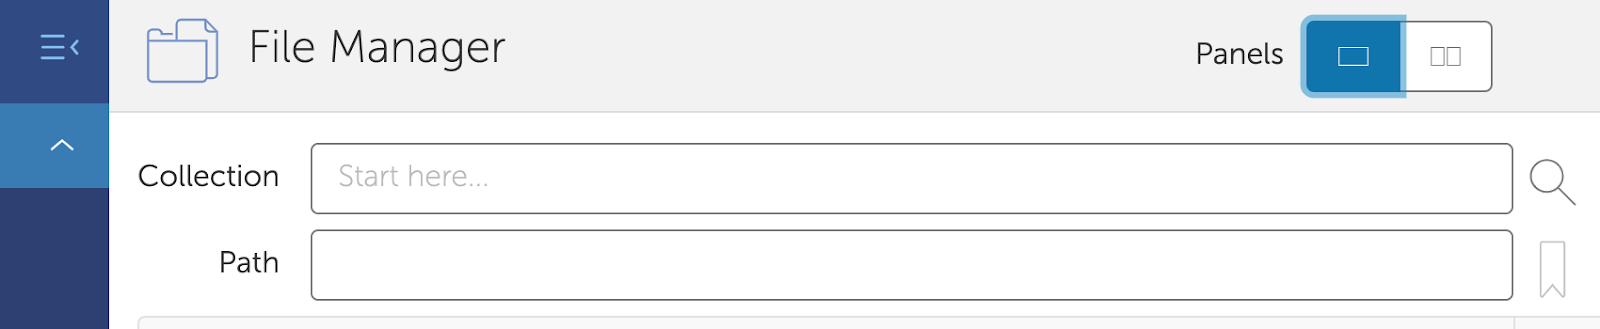
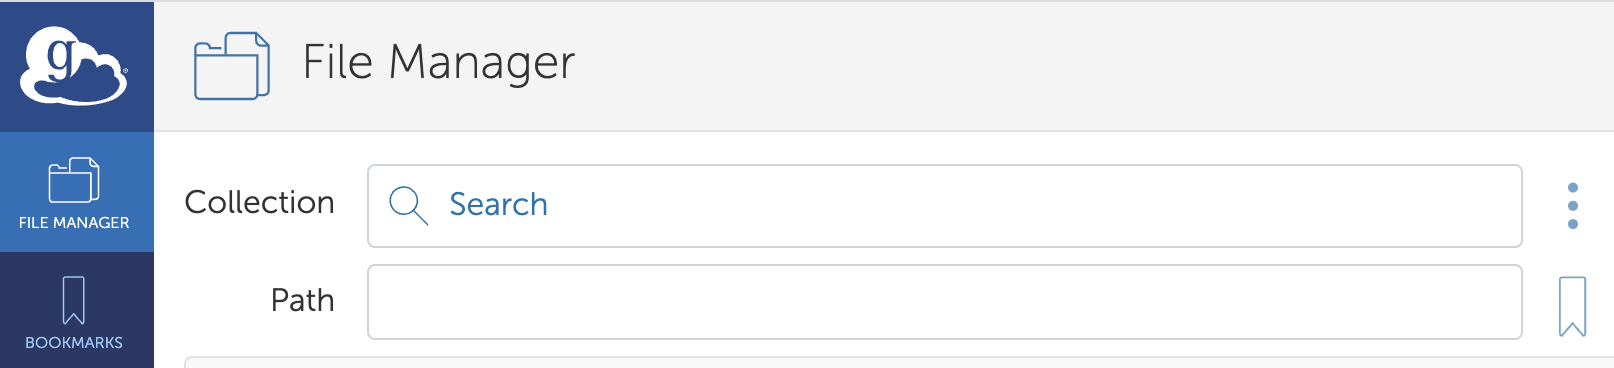
Updated Globus transfer documentation

diff --git a/docs/data/data_transfer.md b/docs/data/data_transfer.md
@@ -26,33 +26,43 @@ For more information about the `scp` and `rysnc` tools please read the manual pa
 
 ## Transfer using Globus Online
 
-The `Globus Online` software is available at [https://app.globus.org](https://app.globus.org).
+The `Globus Transfers` software is available from the [IDIA Science Gateway](https://gateway.idia.ac.za) application dashboard or at [https://app.globus.org](https://app.globus.org).
 
 There are a number of different options for signing in. It may be possible to login using your institution's credentials by searching for your institution's name. Other login options are also available. If you don’t want to link your Globus account to another account, then select `Use Globus ID to sign in` and you’ll be able to create an account specific to Globus.
 
 <div style="text-align:center"><img src="/_media/data_globus_01.png" alt="globus online login" width=500 /></div>
 
-After logging in you will be redirected to the [Globus file manager](https://app.globus.org/file-manager).
+After logging in to `Globus` you will be redirected to the [Globus file manager](https://app.globus.org/file-manager). In the centre of the screen you should see a box labelled `Collection`. If you are accessing `Globus` from the application dashboard the `Ilifu (Globus 5)` endpoint will automatically be selected in this field:
 
-In the centre of the screen you should see a box labelled `Collection`:
+<div style="text-align:center"><img src="/_media/data_globus_02_1.png" alt="globus online collection" width=500 /></div>
+
+Otherwise, if you access the app directly from the `Globus` URL, you'll need to search for the `ilifu` collection.
 
 <div style="text-align:center"><img src="/_media/data_globus_02.png" alt="globus online collection" width=500 /></div>
 
-Type in `ilifu` there and the resulting search should point you the the ilifu data transfer node (DTN):
+Type in `ilifu` in the Collection search field and select the `Ilifu (Globus 5)` collection:
 
-<div style="text-align:center"><img src="/_media/data_globus_03.png" alt="globus online collection ilifu" width=400 /></div>>
+<div style="text-align:center"><img src="/_media/data_globus_03.png" alt="globus online collection ilifu" width=400 /></div>
 
-You will then be redirected to a login screen, where you can enter your ilifu credentials:
+Authentication will be required and you can select `Continue`:
 
-<div style="text-align:center"><img src="/_media/data_globus_04.png" alt="globus online ilifu login" width=500 /></div>>
+<div style="text-align:center"><img src="/_media/data_globus_03_1.png" alt="globus online ilifu login" width=500 /></div>
 
-You will be asked to give consent for Globus to access your directories. You’ll then be redirected to a window where you’ll be able to browse through your home directory on the ilifu system. The ilifu system is only one endpoint of the transfer process. You will need to then set up the source or destination for the transfer. In order to do this, click on the button in the upper right corner of the file list, and you’ll see a menu displayed:
+You will be redirected to page to select an identity from an identity provider, choose to `Link an identity from IDIA (login.idia.ac.za)`
+
+<div style="text-align:center"><img src="/_media/data_globus_03_2.png" alt="globus online ilifu login" width=500 /></div>
+
+If you access the app directly from the `Globus` URL, you will then be redirected to a login screen, where you can enter your ilifu credentials:
+
+<div style="text-align:center"><img src="/_media/data_globus_04.png" alt="globus online ilifu login" width=400 /></div>
+
+Otherwise, you’ll then be redirected to a window where you’ll be able to browse through your home directory on the ilifu system. The ilifu system is only one endpoint of the transfer process. You will need to then set up the source or destination for the transfer. In order to do this, click on the button in the upper right corner of the file list, and you’ll see a menu displayed:
 
 <div style="text-align:center"><img src="/_media/data_globus_05.png" alt="globus online options menu" width=200 /></div>
 
 Select `Transfer or Sync to...` to select the other endpoint in your file transfer. This will open up another panel for selecting the other endpoint, which you'll need to configure. You can set up an endpoint for you desktop, as documented [below](#setting-up-an-endpoint-for-your-desktop). If you are a user of the Centre For High Performance Computing (CHPC), you can also search for the Lengau cluster at the CHPC by typing "CHPC South Africa - Lengau" into the search bar, and using your CHPC credentials to authenticate yourself in the same way as for ilifu.
 
-<div style="text-align:center"><img src="/_media/data_globus_06.png" alt="globus online set endpoint" width=600 /></div>>
+<div style="text-align:center"><img src="/_media/data_globus_06.png" alt="globus online set endpoint" width=600 /></div>
 
 ### Configuring a transfer
 
@@ -68,9 +78,9 @@ This will perform a 'dry run', which will "perform a trial run with no changes m
 
 You can also use Globus to transfer files between ilifu and your desktop using the `Globus Connect Personal`. For installing on your personal computer, click [here](https://docs.globus.org/how-to/globus-connect-personal-linux/) for Linux, [here](https://docs.globus.org/how-to/globus-connect-personal-mac) for Mac OS X, or [here](https://docs.globus.org/how-to/globus-connect-personal-windows) for Windows.
 
-Note that by default you may be unable to access paths outside your home directory using Globus Connect Personal for Linux.  Instructions on how to change the accessible paths can be found [here](https://docs.globus.org/faq/globus-connect-endpoints/#_how_do_i_configure_accessible_directories_on_globus_connect_personal_for_linux).
+Note that by default you may be unable to access paths outside your home directory using Globus Connect Personal for Linux. Instructions on how to change the accessible paths can be found [here](https://docs.globus.org/faq/globus-connect-endpoints/#_how_do_i_configure_accessible_directories_on_globus_connect_personal_for_linux).
 
-Once `Globus Connect Personal` is installed, head back to the `File Browser`, and select the box allowing you to specify the other collection to install.  On the resulting page you should then be able to select the `Your Collections` tab where you should find your `Globus Connect Personal` endpoint.  Select it by clicking on its name, in this case `Test Endpoint`.
+Once `Globus Connect Personal` is installed, head back to the `File Browser`, and select the box allowing you to specify the other collection to install. On the resulting page you should then be able to select the `Your Collections` tab where you should find your `Globus Connect Personal` endpoint. Select it by clicking on its name, in this case `Test Endpoint`.
 
 <div style="text-align:center"><img src="/_media/data_globus_07.png" alt="globus online your collections" width=350 /></div>
 
@@ -80,12 +90,12 @@ You’ll then be able to start making transfers. The interface here resembles a 
 
 Then shift focus to your other endpoint, by clicking on the greyed out file list. You can then browse around to select your destination, creating a `New Folder` if desired. In the example below we’ve selected the file named `foo` on ilifu to transfer to the `transfer test` folder in my home directory:
 
-<div style="text-align:center"><img src="/_media/data_globus_08.png" alt="globus online transfer example" width=650 /></div>>
+<div style="text-align:center"><img src="/_media/data_globus_08.png" alt="globus online transfer example" width=650 /></div>
 
 Then click the **left** `Start` button at the bottom of the page to initiate a transfer to your system from ilifu (the **right** `Start` button will transfer to ilifu instead).
 
 <div style="text-align:center"><img src="/_media/data_globus_09.png" alt="globus online start" width=300 />
-</div>>
+</div>
 
 You should then see a similar message appear on the page as the following:
 
@@ -93,7 +103,7 @@ You should then see a similar message appear on the page as the following:
 
 Globus will then inform your by email of the status of your transfer once it’s either failed or completed or you can click `Activity` in the sidebar to monitor its progress.
 
-**Note that by default Globus will only be able to act on your behalf for 24 hours from since you last submitted your ilifu username and password in the Globus interface to login to the DTN.  At times you may need to extend the lifetime of your credentials.**  To do so, click `Endpoints` in the sidebar, select `ilifu DTN`, and you should then see a button labelled `Extend Activation` on the right hand side of the screen.  You’ll then see a login screen for the `ilifu DTN` similar to before where you can login to extend the credentials available to Globus for a further time period.  (A lifetime other than 24 hours can be specified by clicking `Advanced` and entering a different lifetime in hours, though individual transfers may still be limited to 24 hours each).
+**Note that by default Globus will only be able to act on your behalf for 24 hours from since you last submitted your ilifu username and password in the Globus interface to login to the DTN. At times you may need to extend the lifetime of your credentials.** To do so, click `Endpoints` in the sidebar, select `ilifu DTN`, and you should then see a button labelled `Extend Activation` on the right hand side of the screen. You’ll then see a login screen for the `ilifu DTN` similar to before where you can login to extend the credentials available to Globus for a further time period. (A lifetime other than 24 hours can be specified by clicking `Advanced` and entering a different lifetime in hours, though individual transfers may still be limited to 24 hours each).
 
 ### Using Globus for internal ilifu transfers
 
